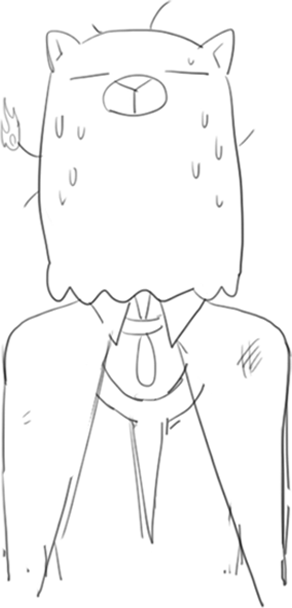
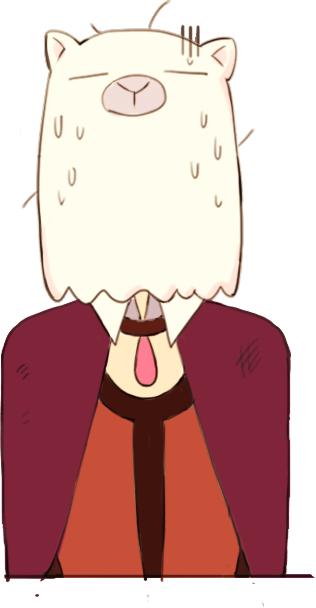
0422更新
替换美术素材

diff --git a/Egret/src/Main.ts b/Egret/src/Main.ts
@@ -108,6 +108,7 @@ class Main extends eui.UILayer {
         this.gameScene.touchEnabled = true;
         this.gameScene.touchBtn.addEventListener(egret.TouchEvent.TOUCH_BEGIN,this.touchBegin,this);
         this.gameScene.touchBtn.addEventListener(egret.TouchEvent.TOUCH_END,this.touchEnd,this);
+        this.gameScene.touchBtn.addEventListener(egret.TouchEvent.TOUCH_RELEASE_OUTSIDE,this.touchEnd,this);
         
     }
     
@@ -119,13 +120,7 @@ class Main extends eui.UILayer {
         return result;
     }
 
-    private onButtonClick(e: egret.TouchEvent) {
-        var panel = new eui.Panel();
-        panel.title = "Title";
-        panel.horizontalCenter = 0;
-        panel.verticalCenter = 0;
-        this.addChild(panel);
-    }
+
     
     private touchStart:number;
     private touchBegin(e:egret.TouchEvent){
@@ -135,6 +130,12 @@ class Main extends eui.UILayer {
         console.log("触摸开始"+this.touchStart);
         this.gameScene.goodFood.alpha = 0;
         this.gameScene.badFood.alpha = 0;
+        if(this.gameScene.getChildByName("share"))
+        {
+            this.gameScene.removeChild(this.gameScene.share);//要不要检查为空？,哈哈，果然需要
+        }
+      //  this.gameScene.removeChild(this.gameScene.share);//要不要检查为空？,哈哈，果然需要
+     //   this.gameScene.share.
         egret.Tween.get(this.gameScene.goodFood).to({ alpha: 1 },5000,egret.Ease.circIn).call(this.badResult,this);
         
     }
@@ -159,7 +160,9 @@ class Main extends eui.UILayer {
                 console.log("触摸结束,触摸时间为" + this.touchTime);
                 //this.gameScene.resultText.text = "窗口大小为"+this.gameScene.height;
                 this.gameScene.resultText.text = "同学，你在逗我吧..";
-                this.gameScene.people.source = "resource/assets/fail.png";
+                this.gameScene.people.source = RES.getRes("fail_png");
+                //this.gameScene.people.source = "resource/assets/fail.png";
+                this.gameScene.ShareButton();
                 // this.overText.x = this.stage.stageWidth - this.overText.width >> 1;
                 // this.overText.y = this.stage.stageHeight - this.stage.stageHeight / 5;
                 break;
@@ -169,7 +172,9 @@ class Main extends eui.UILayer {
                 console.log("触摸结束，触摸时间为" + this.touchTime);
                 // textField.text = "哎呀,你太心急了，你得到了一个夹生的蛋糕！"
                 this.gameScene.resultText.text = "哎呀,你太心急了，火才刚升起来！";
-                this.gameScene.people.source = "resource/assets/fail.png";
+                this.gameScene.people.source = RES.getRes("fail_png");
+                //this.gameScene.people.source = "resource/assets/fail.png";
+                this.gameScene.ShareButton();
                 //this.overText.x = this.stage.stageWidth - this.overText.width >> 1;
                 // this.overText.y = this.stage.stageHeight - this.stage.stageHeight / 5;
                 break;
@@ -177,7 +182,9 @@ class Main extends eui.UILayer {
             case this.touchTime >= 2000 && this.touchTime < 3000:
                 console.log("触摸结束,触摸时间为" + this.touchTime);
                 this.gameScene.resultText.text = "你太心急了，羊排才刚放在烤架上";
-                this.gameScene.people.source = "resource/assets/fail.png";
+                this.gameScene.people.source = RES.getRes("fail_png");
+                //this.gameScene.people.source = "resource/assets/fail.png";
+                this.gameScene.ShareButton();
                // this.overText.x = this.stage.stageWidth - this.overText.width >> 1;
                // this.overText.y = this.stage.stageHeight - this.stage.stageHeight / 5;
                 break;
@@ -185,7 +192,9 @@ class Main extends eui.UILayer {
             case this.touchTime >= 3000 && this.touchTime < 4100:
                 console.log("触摸结束,触摸时间为" + this.touchTime);
                 this.gameScene.resultText.text = "骚年，不要心急，羊排才烤没多久呢";
-                this.gameScene.people.source = "resource/assets/fail.png";
+                this.gameScene.people.source = RES.getRes("fail_png");
+                //this.gameScene.people.source = "resource/assets/fail.png";
+                this.gameScene.ShareButton();
              //   this.overText.x = this.stage.stageWidth - this.overText.width >> 1;
               //  this.overText.y = this.stage.stageHeight - this.stage.stageHeight / 5;
                 break;
@@ -200,7 +209,9 @@ class Main extends eui.UILayer {
             case this.touchTime >= 4100 && this.touchTime < 4600:
                 console.log("触摸结束,触摸时间为" + this.touchTime);
                 this.gameScene.resultText.text = "哇哦，一番努力后，你获得了六分熟的烤羊排，打败了全国61%的厨师！哪位勇士来尝一下？";
-                this.gameScene.people.source = "resource/assets/success.png";
+                this.gameScene.people.source = RES.getRes("success_png");
+                //this.gameScene.people.source = "resource/assets/success.png";
+                this.gameScene.ShareButton();
                // this.overText.x = this.stage.stageWidth - this.overText.width >> 1;
                // this.overText.y = this.stage.stageHeight - this.stage.stageHeight / 5;
                 break;
@@ -208,7 +219,9 @@ class Main extends eui.UILayer {
             case this.touchTime >= 4600 && this.touchTime < 4850:
                 console.log("触摸结束,触摸时间为" + this.touchTime);
                 this.gameScene.resultText.text = "可以呀，一番努力后，你获得了八分熟的羊排，打败了全国83%的厨师！";
-                this.gameScene.people.source = "resource/assets/success.png";
+                this.gameScene.people.source = RES.getRes("success_png");
+                //this.gameScene.people.source = "resource/assets/success.png";
+                this.gameScene.ShareButton();
               //  this.overText.x = this.stage.stageWidth - this.overText.width >> 1;
                // this.overText.y = this.stage.stageHeight - this.stage.stageHeight / 5;
                 break;
@@ -216,7 +229,9 @@ class Main extends eui.UILayer {
             case this.touchTime >= 4850 && this.touchTime < 4950:
                 console.log("触摸结束,触摸时间不为" + this.touchTime);
                 this.gameScene.resultText.text = "太好啦！一番努力后，你获得了九分熟的烤羊排，打败了全国92%的厨师！吃货可以上啦！";
-                this.gameScene.people.source = "resource/assets/success.png";
+                this.gameScene.people.source = RES.getRes("success_png");
+                //this.gameScene.people.source = "resource/assets/success.png";
+                this.gameScene.ShareButton();
                // this.overText.x = this.stage.stageWidth - this.overText.width >> 1;
                // this.overText.y = this.stage.stageHeight - this.stage.stageHeight / 5;
                 break;
@@ -224,7 +239,9 @@ class Main extends eui.UILayer {
             case this.touchTime >= 4950 && this.touchTime < 5000:
                 console.log("触摸结束,触摸时间为" + this.touchTime);
                 this.gameScene.resultText.text = "吃货之神！一番努力后，你获得了色香味俱全的完美黄金烤羊排，打败了全国99%的厨师！赶紧开个烧烤店走向人生巅峰吧";
-                this.gameScene.people.source = "resource/assets/prefect.png";
+                this.gameScene.people.source = RES.getRes("prefect_png");
+                //this.gameScene.people.source = "resource/assets/prefect.png";
+                this.gameScene.ShareButton();
                // this.overText.x = this.stage.stageWidth - this.overText.width >> 1;
                // this.overText.y = this.stage.stageHeight - this.stage.stageHeight / 5;
                 break;
@@ -232,7 +249,9 @@ class Main extends eui.UILayer {
             case this.touchTime >= 5000 && this.touchTime < 5300:
                 console.log("触摸结束,触摸时间为" + this.touchTime);
                 this.gameScene.resultText.text = "哎呀，烤太过了，你只得到了烤糊了的羊排";
-                this.gameScene.people.source = "resource/assets/bad.png";
+                this.gameScene.people.source = RES.getRes("bad_png");
+                //this.gameScene.people.source = "resource/assets/bad.png";
+                this.gameScene.ShareButton();
                 //this.overText.x = this.stage.stageWidth - this.overText.width >> 1;
                 //this.overText.y = this.stage.stageHeight - this.stage.stageHeight / 5;
                 break;
@@ -240,7 +259,9 @@ class Main extends eui.UILayer {
             case this.touchTime >= 5300 && this.touchTime < 6000:
                 console.log("触摸结束,触摸时间为" + this.touchTime);
                 this.gameScene.resultText.text = "太遗憾了，面包烤的太久了，羊排都被你烤焦了"
-                this.gameScene.people.source = "resource/assets/bad.png";
+                this.gameScene.people.source = RES.getRes("bad_png");
+                //this.gameScene.people.source = "resource/assets/bad.png";
+                this.gameScene.ShareButton();
                //this.overText.text = "天呐！世上真的有这样的面包师，你居然做出了品质为10的绝世面包，据说，这种品质的面包已经有1000年没有出世了！";
                // this.overText.x = this.stage.stageWidth - this.overText.width >> 1;
                // this.overText.y = this.stage.stageHeight - this.stage.stageHeight / 5;
@@ -249,7 +270,9 @@ class Main extends eui.UILayer {
             case this.touchTime >= 6000 && this.touchTime < 7000:
                 console.log("触摸结束,触摸时间为" + this.touchTime);
                 this.gameScene.resultText.text = "亲，你是木炭烤羊排还是羊排烤木炭，再折腾下，羊排就成炭了！";
-                this.gameScene.people.source = "resource/assets/bad.png";
+                this.gameScene.people.source = RES.getRes("bad_png");
+                //this.gameScene.people.source = "resource/assets/bad.png";
+                this.gameScene.ShareButton();
                 //this.overText.x = this.stage.stageWidth - this.overText.width >> 1;
                 // this.overText.y = this.stage.stageHeight - this.stage.stageHeight / 5;
                 break; 
@@ -257,7 +280,9 @@ class Main extends eui.UILayer {
             case this.touchTime >= 7000:
                 console.log("触摸结束,触摸时间为" + this.touchTime);
                 this.gameScene.resultText.text = "亲，你是木炭烤羊排还是羊排烤木炭，再折腾下，羊排就成炭了！";
-                this.gameScene.people.source = "resource/assets/bad.png";
+                this.gameScene.people.source = RES.getRes("bad_png");
+                //this.gameScene.people.source = "resource/assets/bad.png";
+                this.gameScene.ShareButton();
                 //this.overText.x = this.stage.stageWidth - this.overText.width >> 1;
                 // this.overText.y = this.stage.stageHeight - this.stage.stageHeight / 5;
                 break; 

diff --git a/Egret/src/GameScene.ts b/Egret/src/GameScene.ts
@@ -21,36 +21,50 @@ class GameScene extends eui.UILayer{
     	//bgImg.source = "resource/assets/bg.jpg";
     	//this.addChild(bgImg);
     	
+    	 var bgimg:eui.Image = new eui.Image();
+         bgimg.source = RES.getRes("bg_png");
+         bgimg.horizontalCenter = 0
+         this.addChild(bgimg);
     	
     	var items:eui.Image = new eui.Image();
-    	items.source = "resource/assets/items.png";
+    	items.source = RES.getRes("items_png");
+    	//items.source = "resource/assets/items.png";
     	this.addChild(items);
-    	items.bottom = 320;
+    	items.bottom = 180;
     	items.horizontalCenter =0; 	
-      
-    	
-    	this.people.source = "resource/assets/normal.png";
-        this.people.bottom = items.bottom + 100;
-        this.people.horizontalCenter = 15;
+        
+    	var tittle:eui.Image = new eui.Image();
+        tittle.source = RES.getRes("slogan_png");
+        tittle.bottom = items.bottom+160;
+        this.addChild(tittle);
+        
+    	this.people.source = RES.getRes("normal_png")
+    	//this.people.source = "resource/assets/normal.png";
+        this.people.bottom = items.bottom + 280;
+        this.people.horizontalCenter = 35;
     	this.addChild(this.people);
     	console.log("窗口大小为"+window.screen.height);
     	//people.verticalCenter = (-window.screen.height*0.2);	
     	console.log(items.bottom);
     	
         this.swapChildren(this.people,items);
+        this.swapChildren(items,tittle);
     	
     	var food: eui.Image = new eui.Image();
-    	food.source = "resource/assets/food.png";
+    	food.source = RES.getRes("food_png");
+    	//food.source = "resource/assets/food.png";
     	this.addChild(food);
-    	food.bottom = items.bottom+55 ;
+    	food.bottom = items.bottom+225 ;
     	food.horizontalCenter = 85;
     	
-    	this.goodFood.source = "resource/assets/goodfood.png";
+    	this.goodFood.source = RES.getRes("goodfood_png");//坑爹啊，找不到也不报错..
+    	//this.goodFood.source = "resource/assets/goodfood.png";
     	this.addChild(this.goodFood);
     	this.goodFood.bottom = food.bottom; //+22是为了解决bread边缘问题，此处可以把外围设置透明，就解决了多一块问题
         this.goodFood.horizontalCenter = food.horizontalCenter;//同上
         
-        this.badFood.source = "resource/assets/badfood.png";
+        this.badFood.source = RES.getRes("badfood_png");
+        //this.badFood.source = "resource/assets/badfood.png";
         this.addChild(this.badFood);
         this.badFood.bottom = food.bottom; //+22是为了解决bread边缘问题，此处可以把外围设置透明，就解决了多一块问题
         this.badFood.horizontalCenter = food.horizontalCenter;//同上
@@ -63,32 +77,44 @@ class GameScene extends eui.UILayer{
         this.resultText.textColor =0x373737;
         this.resultText.lineSpacing=5;
         this.resultText.textAlign = "center";
-    	this.resultText.text = "Come On！来给路可烤个羊排吧！";
+    	this.resultText.text = "Tip:长按上面的“火”按钮开始烧烤，松开即结束烧烤，注意观察并确定烧烤时间哦";
+    	this.resultText.textColor = 0xFFFFFF;
     	this.addChild(this.resultText);
 
     	//this.resultText.bottom = items.bottom+200;
     	this.resultText.horizontalCenter =0;
     	
     	//点击按钮
-    	this.touchBtn.source = "resource/assets/button.png"
+    	this.touchBtn.source = RES.getRes("button_png");
+    	//this.touchBtn.source = "resource/assets/button.png"
     	this.touchBtn.touchEnabled = true;
     	this.touchBtn.bottom = 150;
     	this.touchBtn.horizontalCenter=0;
     	this.addChild(this.touchBtn);
     	
     	var logo :eui.Image = new eui.Image();
-        logo.source = "resource/assets/logo.png"
+    	logo.source = RES.getRes("logo_png");
+        //logo.source = "resource/assets/logo.png"
         logo.top = 5;
         logo.left =5;
         this.addChild(logo);
         
-        var share:eui.Image = new eui.Image();
-        share.source = "resource/assets/share.png"
-    	share.top=5;
-    	share.right=5;
-    	this.addChild(share);
+
         
     	
+	}
+	
+	//share按钮
+    public share: eui.Image = new eui.Image();;
+	public ShareButton(){
+        this.share.source = RES.getRes("share_png");
+        //this.share.source = "resource/assets/share.png"
+        this.share.top = 5;
+        this.share.right = 5;
+        this.share.name ="share";
+        this.share.alpha = 0;
+        this.addChild(this.share);
+        egret.Tween.get(this.share).to({ alpha: 1 },200,egret.Ease.circIn);
 	}
 	
 

diff --git a/Egret/index.html b/Egret/index.html
@@ -45,9 +45,6 @@
 	<!--game_files_end-->
 </head>
 <body>
-	<div style='margin:0 auto;width:0px;height:0px;overflow:hidden;'>
-		<img src="resource/assets/people.png" width='400'>
-	</div>
     <div style="margin: auto;width: 100%;height: 100%;" class="egret-player"
          data-entry-class="Main"
          data-orientation="portrait"
@@ -63,5 +60,8 @@
     <script>
         egret.runEgret();
     </script>
+    <div style='margin:0 auto;width:0px;height:0px;overflow:hidden;'>
+    	<img src="resource/assets/people.png" width='400'>
+    	</div>
 </body>
 </html>

diff --git a/Egret/src/LoadingUI.ts b/Egret/src/LoadingUI.ts
@@ -48,7 +48,7 @@ class LoadingUI extends egret.DisplayObjectContainer
         this.uiLayer = new eui.UILayer;
         this.addChild(this.uiLayer);
         this.progresImg = new eui.Image();
-        this.progresImg.source = "resource/assets/logo.png";
+        this.progresImg.source = "resource/assets/blacklogo.png";
         this.progresImg.verticalCenter = -150;
         this.progresImg.horizontalCenter = 0;
         this.uiLayer.addChild(this.progresImg);
